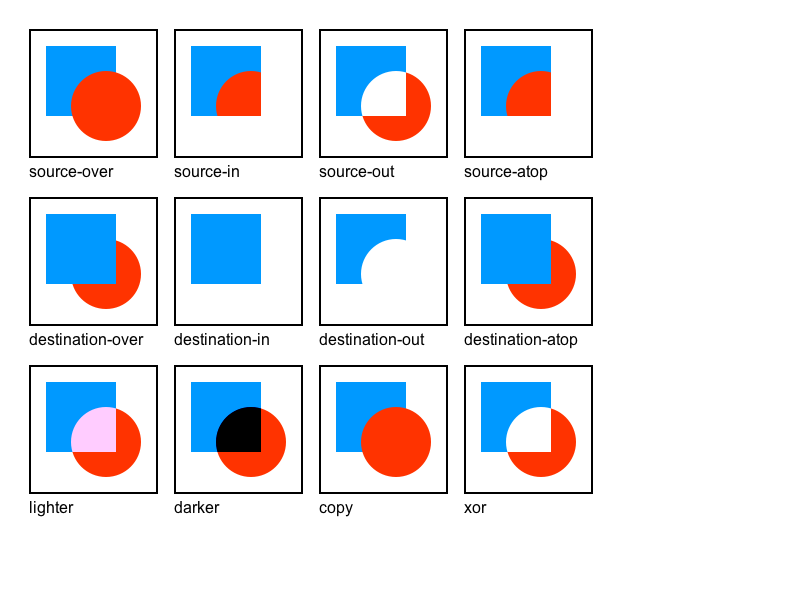
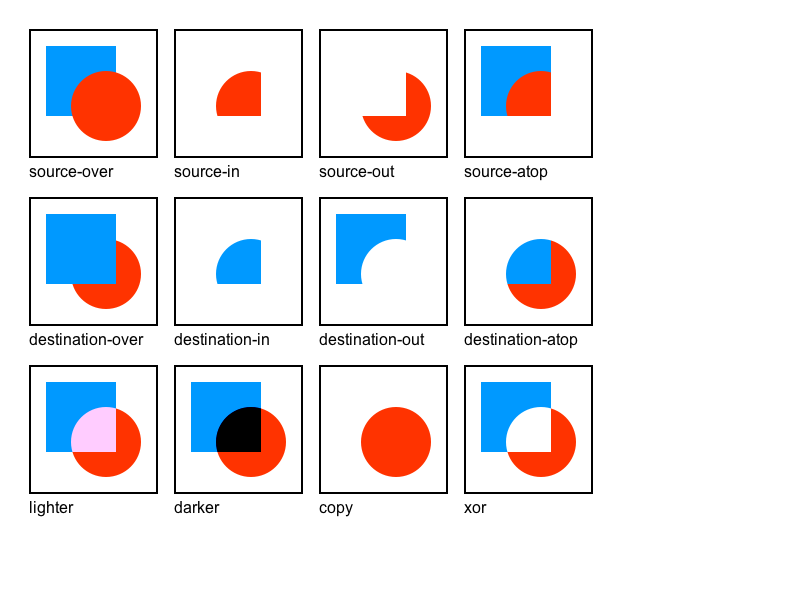
Canvas fill and fillRect with SourceIn, DestinationIn, SourceOut, DestinationAtop and Copy have errors https://bugs.webkit.org/show_bug.cgi?id=66036
Source/WebCore:

These modes cannot be passed straight through to the underlying graphics context as the graphics context
and the HTML5 canvas spec have different interpretations to them. In the graphics context, the compositing
modes are applied just over the area being filled. In the HTML5 spec, the compositing modes are applied over
the entire canvas.

The SourceIn, DestinationIn, SourceOut, DestinationAtop and Copy modes all need some kind of extra action
to just performing the composited fill on the canvas, as they need t he canvas to be cleared outside of the
area being filled.

Previous to this change the Copy mode did not do this clearing at all. The other modes did but if the
transformed path being filled contained anti-aliasing at its edges artifacts were introduced.

With this change, Copy now does a complete erase of the canvas before performing a fill as per normal.
The other modes use a temporary buffer just big enough for the transformed path (in device coordinates).
The fill is first done there in SourceOver mode. Then this is drawn into the canvas context using the
appropriate mode, with any areas outside the draw area being cleared.

Patch by Ben Wells <benwells@chromium.org> on 2011-08-17
Reviewed by James Robinson.

Test: fast/canvas/canvas-composite-transformclip.html

* html/HTMLCanvasElement.h:
* html/canvas/CanvasRenderingContext2D.cpp:
(WebCore::CanvasRenderingContext2D::fill):
(WebCore::CanvasRenderingContext2D::fillRect):
[…]

diff --git a/fast/canvas/canvas-composite-transformclip.html b/fast/canvas/canvas-composite-transformclip.html
@@ -1,0 +1,120 @@
+<html> 
+  <head> 
+    <title>A canvas globalCompositeOperation example</title> 
+    <meta name="DC.creator" content="Kamiel Martinet, http://www.martinet.nl/"> 
+    <meta name="DC.publisher" content="Mozilla Developer Center, http://developer.mozilla.org"> 
+    <script type="application/x-javascript"> 
+      if (window.layoutTestController)
+	    layoutTestController.dumpAsText(true);
+
+      // This test should show a table of canvas elements. The canvas elements have transforms
+      // applied, and onto the background a blue square is drawn, either fully opaque or with some
+      // transparency.
+
+      // Then clip is added, which with the transform taken into account only allows drawing into
+      // the bottom of the canvas.
+
+      // Then either a green rectangle or a green ellipse is drawn, either fully opaque or with
+      // some transparency. These are drawn with a different compositing mode for every row.
+
+      // In each cell the top half should be same from one row to the next as changes here are
+      // clipped out.
+
+      // In each row the green rectangle or ellipse should be drawn with the appropriate compositing
+      // mode, as per the HTML5 canvas spec.
+
+      // In each cell the drawing should be contained within the cell boundary.
+
+      // These map to the rows of the table
+      var compositeTypes = [
+        'source-over','source-in','source-out','source-atop',
+        'destination-over','destination-in','destination-out','destination-atop',
+        'lighter','darker','copy','xor'
+      ];
+      // These map to the columns of the table
+      var testNames = [
+        'solid rect on solid', 'alpha rect on solid', 'solid rect on alpha',
+        'alpha rect on alpha', 'solid path on solid', 'alpha path on solid',
+        'solid path on alpha', 'alpha path on alpha',
+      ];
+      function createOutputTable() {
+        var tableEl = document.getElementById('outputtable');
+        var row = tableEl.insertRow(-1);
+        var cell = row.insertCell(-1);
+        var label;
+        var canvas;
+        for (var i = 0; i < compositeTypes.length; i++) {
+          row = tableEl.insertRow(-1);
+          for (var j = 0; j < testNames.length; j++) {
+            canvas = document.createElement('canvas');
+            canvas.width = 65;
+            canvas.height = 45;
+            canvas.id = compositeTypes[i] + testNames[j];
+            cell = row.insertCell(-1);
+            cell.appendChild(canvas);
+          }
+        }
+      }
+      function getContext(compositeIndex, testIndex) {
+        var id = compositeTypes[compositeIndex] + testNames[testIndex];
+        var context = document.getElementById(id).getContext('2d');
+        return context;
+      }
+      function setupContext(context, alpha) {
+        context.translate(40, 0);
+        context.rotate(Math.PI / 2);
+        context.scale(0.2, 0.4);
+        context.translate(-1000, -2000);
+        if (alpha) {
+          context.fillStyle = 'rgba(00,100,255,0.5)';
+        } else {
+          context.fillStyle = 'rgba(00,100,255,1)';
+        } 
+        context.fillRect(1020, 2010, 160, 80);
+        context.beginPath();
+        context.moveTo(1100, 1900);
+        context.lineTo(1500, 1900);
+        context.lineTo(1500, 2200);
+        context.lineTo(1100, 2200);
+        context.clip();
+      }
+      function doFill(context, compositeIndex, alpha, path) {
+        context.globalCompositeOperation = compositeTypes[compositeIndex];
+        if (alpha) {
+          context.fillStyle = 'rgba(64,255,0,0.5)';
+        } else {
+          context.fillStyle = 'rgba(64,255,0,1)';
+        } 
+        if (path) {
+          context.beginPath();
+          context.arc(1100, 2000, 50  , 0, Math.PI*2, true);
+          context.fill();
+        } else {
+          context.fillRect(1040, 1950, 120, 100);
+        }
+      }
+      function draw() {
+        createOutputTable();
+        for (var i = 0; i < compositeTypes.length; i++) {
+          for (var j = 0; j < testNames.length; j++) {
+            var context = getContext(i, j);
+            setupContext(context, j % 4 > 1);
+            doFill(context, i, j % 2, j > 3);
+          }
+        }
+      }
+    </script> 
+    <style type="text/css"> 
+      body { margin: 5px; font-family: arial,verdana,helvetica; background: #fff;}
+      canvas { border: 1px solid #999; }
+      td { margin: 0px; padding: 0px; }
+      table { border-collapse: collapse; }
+    </style> 
+  </head> 
+  <body onload="draw();"> 
+    <div> 
+      <table id='outputtable'>
+      </table>
+    </div> 
+  </body> 
+</html>

diff --git a/fast/canvas/canvas-composite-alpha.html b/fast/canvas/canvas-composite-alpha.html
@@ -185,21 +185,21 @@
               { source: [255, 0, 255, 191], composition: [191, 127, 255, 255], destination: [0, 255, 255, 127] }
           ],
           [
-              { source: [255, 0, 0, 255], composition: [255, 0, 0, 255], destination: [0, 255, 0, 255] },
               { source: [255, 0, 0, 255], composition: [255, 0, 0, 255], destination: [0, 0, 0, 0] },
-              { source: [255, 0, 0, 255], composition: [255, 0, 0, 255], destination: [0, 255, 0, 1] },
-              { source: [0, 0, 0, 0], composition: [0, 0, 0, 0], destination: [255, 0, 0, 255] },
-              { source: [0, 255, 0, 1], composition: [0, 255, 0, 1], destination: [255, 0, 0, 255] },
-              { source: [0, 0, 0, 0], composition: [0, 0, 0, 0], destination: [0, 255, 0, 255] },
-              { source: [255, 0, 0, 127], composition: [255, 0, 0, 127], destination: [0, 255, 0, 127] },
-              { source: [255, 0, 0, 255], composition: [255, 0, 0, 255], destination: [0, 255, 0, 127] },
-              { source: [255, 0, 0, 127], composition: [255, 0, 0, 127], destination: [0, 255, 0, 255] },
-              { source: [127, 0, 0, 255], composition: [127, 0, 0, 255], destination: [0, 126, 0, 127] },
-              { source: [126, 0, 0, 127], composition: [126, 0, 0, 127], destination: [0, 127, 0, 255] },
-              { source: [255, 0, 0, 127], composition: [255, 0, 0, 127], destination: [255, 0, 0, 63] },
-              { source: [255, 127, 0, 32], composition: [255, 127, 0, 32], destination: [255, 64, 0, 63] },
-              { source: [255, 0, 0, 191], composition: [255, 0, 0, 191], destination: [0, 255, 0, 127] },
-              { source: [255, 0, 255, 191], composition: [255, 0, 255, 191], destination: [0, 255, 255, 127] }
+              { source: [255, 0, 0, 255], composition: [255, 0, 0, 255], destination: [0, 0, 0, 0] },
+              { source: [255, 0, 0, 255], composition: [255, 0, 0, 255], destination: [0, 0, 0, 0] },
+              { source: [0, 0, 0, 0], composition: [0, 0, 0, 0], destination: [0, 0, 0, 0] },
+              { source: [0, 255, 0, 1], composition: [0, 255, 0, 1], destination: [0, 0, 0, 0] },
+              { source: [0, 0, 0, 0], composition: [0, 0, 0, 0], destination: [0, 0, 0, 0] },
+              { source: [255, 0, 0, 127], composition: [255, 0, 0, 127], destination: [0, 0, 0, 0] },
+              { source: [255, 0, 0, 255], composition: [255, 0, 0, 255], destination: [0, 0, 0, 0] },
+              { source: [255, 0, 0, 127], composition: [255, 0, 0, 127], destination: [0, 0, 0, 0] },
+              { source: [127, 0, 0, 255], composition: [127, 0, 0, 255], destination: [0, 0, 0, 0] },
+              { source: [126, 0, 0, 127], composition: [126, 0, 0, 127], destination: [0, 0, 0, 0] },
+              { source: [255, 0, 0, 127], composition: [255, 0, 0, 127], destination: [0, 0, 0, 0] },
+              { source: [255, 127, 0, 32], composition: [255, 127, 0, 32], destination: [0, 0, 0, 0] },
+              { source: [255, 0, 0, 191], composition: [255, 0, 0, 191], destination: [0, 0, 0, 0] },
+              { source: [255, 0, 255, 191], composition: [255, 0, 255, 191], destination: [0, 0, 0, 0] }
           ],
           [
               { source: [255, 0, 0, 255], composition: [0, 0, 0, 0], destination: [0, 255, 0, 255] },
